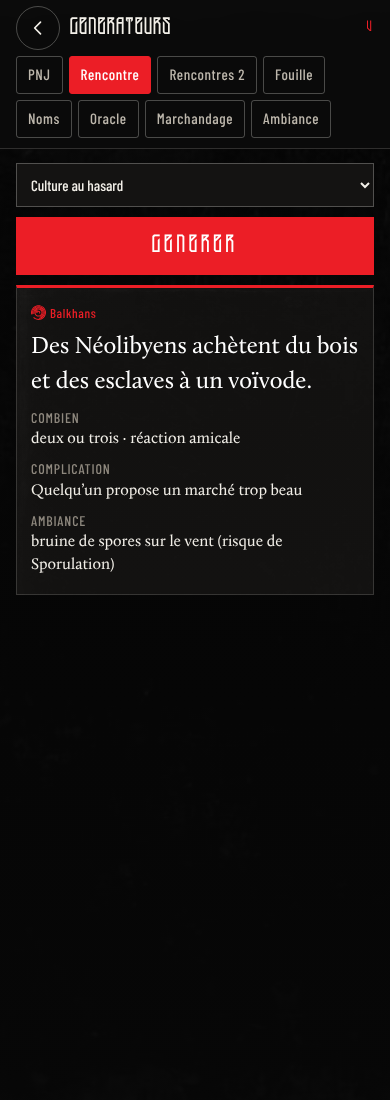
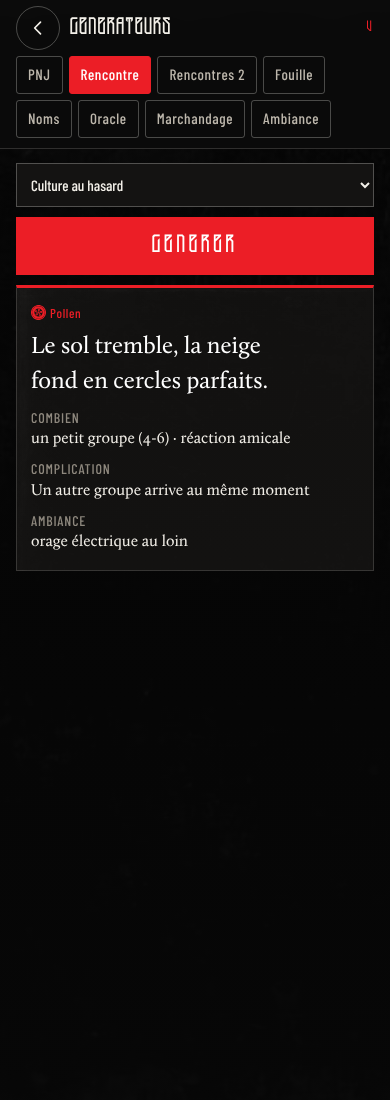
Générateurs : tables doublées
Claude-Session: https://claude.ai/code/session_01LtkstC13MjDizu5DuuNSSV

Changed region(s): [[0.0615, 0.2782, 0.9231, 0.4018], [0.0615, 0.4327, 0.8, 0.5255], [0.6154, 0.4945, 0.6462, 0.5255]]

diff --git a/data/gen.js b/data/gen.js
@@ -112,3 +112,29 @@ add("trouvailles",["batterie encore chargée","lampe torche à dynamo","jumelles
 add("danger",["plancher pourri qui cède","gaz accumulé dans une cave","nid de gendos","champ de spores en formation","Ferrailleur rival qui revendique la ruine","piège posé par l’ancien occupant","effondrement imminent","eau croupie contaminée","essaim d’insectes","clan qui considère l’endroit comme sacré","Psychonaute en sommeil dans les profondeurs","câble encore sous tension","Cafards dans les tunnels","aucun, l’endroit est étrangement calme","patrouille qui surveille la zone","radiation ou poison inconnu (malaise, nausée)","crevasse cachée sous la poussière","bête des gouffres"]);
 add("detail",["la rune d’un Ferrailleur connu : « J’ai tout pris, passez votre chemin »","des dessins d’enfants sur un mur","un cadavre momifié serrant un objet","des traces de pas récentes dans la poussière","un message gravé dans une langue oubliée","des ossements rongés autour d’un feu éteint","une fresque montrant des hommes entrant dans des machines","une porte blindée intacte, sans poignée","un écran qui s’allume une seconde puis s’éteint","des pictogrammes de Recombination Group","une cache à moitié vidée","des inscriptions « Plus jamais ! » à la peinture rouge","des toiles d’araignées gigantesques","l’odeur de quelqu’un qui vit là","des flocons blancs de Sepsie dans les fissures","un autel improvisé fait de reliques","un plan d’évacuation encore lisible","une radio qui grésille sur une fréquence inconnue"]);
 })(window.GEN);
+
+/* Extension 2 (oct. 2026) : tables doublées. */
+(function(G){
+const add=(k,a)=>{G[k]=(G[k]||[]).concat(a)};
+add("physique",["visage grêlé par une ancienne maladie","barbe tressée de perles de bois","sourcils brûlés","dos voûté par des années de fouille","yeux cernés de noir à force de veiller","peau tannée comme du cuir","cheveux blancs malgré son jeune âge","lèvres gercées et saignantes","tatouage de corbeau sur la main","pommettes saillantes, joues creuses","ongles longs et sales","mâchoire de travers, mal ressoudée","silhouette massive, ventre de buveur","épaules couvertes d’une cape à miroirs","cheveux rasés ras, scarifications sur le crâne","voix douce qui détonne avec son allure","œil couvert d’un bandeau de cuir","manteau long et chapeau à larges bords","bras droit plus musclé que le gauche","peau couverte de poussière rouge","crâne glabre et luisant d’huile","oreilles percées de dizaines d’anneaux","jambe raide, articulée par une attelle de fer","cicatrices de griffes sur la joue","yeux plissés, habitués au soleil","dents en or","visage fardé, poudre et parfum","muscles secs, pas un gramme de graisse","main couverte de brûlures chimiques","tunique colorée aux motifs ancestraux","fourrure de mammouth sur les épaules","doigts tachés d’encre","cheveux tressés et ornés de plumes","toujours encapuchonné","boucles d’oreilles faites d’os de doigts","grand, voûté, la tête rentrée dans les épaules","sourire édenté","pied nu, l’autre chaussé","bras couverts de bracelets de cuivre","silhouette frêle d’enfant malgré l’âge adulte","regard vide de grand Brûlé","marques de chaînes aux poignets","mains fines d’écrivain","front bas et sourcils broussailleux","odeur de bête et de feu de bois"]);
+add("attitude",["courtois mais distant","agressif dès qu’on hausse le ton","moqueur, se rit de tout","résigné, n’attend plus rien","hautain, méprise les sans-culte","chaleureux, offre à boire d’emblée","prudent, pose beaucoup de questions","solennel, parle comme un prêtre","enfantin, s’émerveille de tout","froid comme une lame","flatteur, en fait trop","rongé de culpabilité","exalté par une vision récente","sur la défensive, mains près de l’arme","fatigué de la guerre","charmeur et séducteur","grincheux, rien ne lui convient","fidèle à sa parole, quoi qu’il en coûte","menteur compulsif","pieux et sincère","ivre la moitié du temps","respectueux des anciens et des coutumes","joueur, propose des défis","soupçonneux envers tout ce qui brille","pressé, a mieux à faire","perdu, ne sait plus où aller","méprisant envers les Afrikains (ou les Européens)","fasciné par la technologie","effrayé par la nuit","prêt à se sacrifier pour les siens"]);
+add("secret",["a vu un Maraudeur et n’en parle à personne","garde un enfant psychonaute caché","a falsifié son score au Serveur","boit le sang de ses ennemis","a été soigné par un Anubien et en porte la marque","vend des esclaves aux Néolibyens","a dénoncé son propre frère aux Spitaliers","détient une lettre compromettante d’un Juge","a ouvert la porte d’un Distributeur et refermé aussitôt","fait partie d’une cellule P-26 hellvétique","est l’amant d’un membre d’un culte ennemi","a tué un Isaaki","a fui la Distorsion et n’en garde que des bribes","fabrique de faux artefacts","connaît l’emplacement d’une oasis","rêve chaque nuit d’un chacal","est infertile et le cache","a reçu une prophétie du tarot qui l’obsède","a été mesmérisé par un Démagogue blafard","prépare son départ pour l’Afrika","finance une nuée apocalyptique","a vendu son âme, dit-il, à un Phéromancien","a mangé de la chair humaine pour survivre","sait lire, et le cache","a volé une huile élyséenne à Lucatore","cherche la tombe d’un ancêtre","appartient à un Fragment chroniqueur sans le savoir","a été Kifo et a changé de nom","garde le journal d’un Spitalier disparu","est recherché par les Juges sous un autre nom","a un sosie qui commet des crimes en son nom","entend le Warui alors qu’il n’est pas Afrikain","a rompu un vœu sacré","doit sa fortune à un pillage de tombes","fait passer de la Brûlure dans des sacs de blé","croit être l’Élu d’une prophétie","vit avec la peur d’être un Léperos","a déjà rencontré l’un des PJ, qui l’a oublié","a enterré un trésor qu’il n’arrive plus à retrouver","protège un fugitif"]);
+add("veut",["qu’on retrouve un chariot volé","un remède pour un enfant malade","qu’on porte une offrande à un sanctuaire","récupérer un corps pour l’enterrer selon les rites","qu’on intercède auprès d’un chef de clan","qu’on l’emmène voir la mer","faire un pari avec les PJ","qu’on ouvre une porte scellée","qu’on lui apprenne à lire","se racheter d’une faute","qu’on l’aide à monter dans la hiérarchie de son culte","qu’on chasse des pillards de sa ferme","un témoin pour un mariage ou un serment","qu’on retrouve un Ferrailleur disparu","qu’on lui rapporte une herbe rare","vendre une carte au trésor","qu’on démasque un traître","qu’on transporte une fiole sans poser de questions","que les PJ partent, tout de suite","une épée, un fusil, n’importe quelle arme"]);
+add("manie",["tapote du doigt un rythme de tubes blafard","ajuste sans cesse son chapeau","prie avant chaque repas","parle à son arme","cite des proverbes que personne ne connaît","a peur des chats","garde toujours une pièce entre ses doigts","crache après avoir prononcé un nom","ne mange que ce qu’il a vu préparer","dessine des cercles dans la poussière","se balance d’avant en arrière en parlant","chuchote même quand c’est inutile","refuse de serrer la main","porte un toast à chaque phrase importante","appelle tout le monde « mon enfant »","renifle bruyamment"]);
+add("possession",["une feuille du Codex recopiée à la main","un vocodeur cassé","un couteau à lame de verre","une flasque de slivovitz","une plume de corbeau tressée","une bourse de graines de Psychovores","un chapelet de dents","un fustigateur sans batterie","une cartouche d’Ex","un pendentif croix brisée en fil de fer","une poupée de chiffon","un bracelet de cuivre gravé de runes","un fragment de miroir de Chroniqueur","une boîte de conserve jamais ouverte","un flacon de bile de chacal","une photo d’avant l’Eschaton","un sifflet en os","une liasse de lettres de change froissées","un tatouage de passe sur la paume","un dé à jouer en ivoire","un bâton de berger gravé","un médaillon contenant une mèche de cheveux"]);
+const R=G.rencontres;
+const more={
+"Borca":["Un Médecin de village spitalier annonce le prix d’un traitement à une famille en larmes.","Une Pie apocalyptique vous fait les poches en souriant.","Des Hellvétiques escortent une délégation vers la Forteresse alpine.","Un chariot de ferraille bloque la route, son Ferrailleur endormi dessus.","Une pierre du Jugement couverte de lichen, une offrande fraîche à ses pieds.","Des Ravis anabaptistes demandent l’aumône d’un repas.","Une Alcôve dont le mur d’écrans clignote : « SCORE TOO LOW ».","Un convoi néolibyen se fait refouler par des Juges.","Des Phosphorites luisent dans l’obscurité d’une ruine.","Une foule assiste à une exécution au marteau.","Des Gendos ont acculé un enfant sur un toit.","Un Chroniqueur montre le petit doigt : n’approchez pas.","Une colonne de prisonniers de Justitienne marche vers les mines de Mobilis.","Un mollusk se met à cogner dans son cylindre au passage d’un PJ.","Un Spitalier propose de vous acheter vos excréments pour analyse.","Un faux Juge rançonne les voyageurs.","Des Clanistes ont mis le feu à une ferme du Protectorat.","Une tempête de poussière rouge recouvre tout pendant une heure."],
+"Franka":["Un village entier dort le jour et vit la nuit, par peur des essaims.","Des fourmis géantes transportent un cadavre vers une colline de reproduction.","Une procession funèbre traverse le marais sur des barques.","Un pirate Mouette remonte le fleuve pour cacher son butin.","Un Phéromancien déguisé en marchand vend des parfums.","Des Touloni réclament un péage pour traverser leur pont.","Une épave d’avion émerge des roseaux.","Un Ferrailleur afrikain cherche un guide pour l’arrière-pays.","Des enfants pêchent des sangsues pour les Spitaliers.","Un faux-bourdon sourit sans comprendre ce qu’on lui dit.","Une odeur sucrée envahit l’air : une reine n’est pas loin.","Un Juge isolé, loin de la Borca, cherche son chemin.","Une barricade de vieilles carcasses protège un hameau.","Une ziggourat de termites grandit au bord de la route.","Un Néolibyen se plaint de vingt autobastions perdus dans les marais.","Des chants s’élèvent d’une église en ruine.","Un clan offre l’hospitalité en échange d’un récit.","Un essaim passe au-dessus du groupe sans s’arrêter."],
+"Pollen":["Un cavalier garganti propose une course pour un cheval.","Des chasseurs ramènent un Biokinésiste ligoté.","Un lac écarlate couvert de cadavres de Psychonautes.","Des araignées tissent un cocon autour d’un camp abandonné.","Une famille mâche du lichen autour d’un maigre feu.","Un autobastion néolibyen monte la garde près de Wroclaw.","Un Spitalier fou vit seul dans un fortin effondré.","Des mammouths se battent dans une clairière.","Une oasis verte au milieu de la toundra, gardée par des hommes en armes.","Un chaman lit l’avenir dans des entrailles de taureau.","Une forêt fractale chante quand le vent souffle.","Des Ferrailleurs de Pollen réparent un moteur pour des Afrikains.","Une banquise avance et engloutit une hutte.","Des bêtes des gouffres hurlent la nuit.","Un clan sacrifie un lapin à une forêt fractale.","Des Apocalyptiques réclament un tribut pour la Mère Corbeau.","Un tremblement de terre ouvre une crevasse fumante.","Un convoi spitalier se dirige vers Gdańsk sous la neige."],
+"Balkhans":["Un Dushani chante au fond d’une vallée : tout le monde se tait.","Des Jehammétans de Bucuresti paient tribut à un voïvode.","Des enfants apprennent à ne jamais parler de leurs voisins.","Un bunker blafard émet des claquements rythmés.","Un éveilleur blafard demande poliment son chemin.","Des Fléaux campent dans les tours d’une ville morte.","Une Hagari porte des explosifs sous ses vêtements.","Un mariage de clan tourne à la rixe.","Des maisons en pierres de taille accueillent ceux qui saluent correctement.","Une Corneille tire le tarot pour un voïvode.","Des esclaves en haillons tirent un chariot vers le sud.","Un champ de mines oublié, balisé de crânes.","Une procession d’Arianoï porte une tête de bélier.","Un Spitalier exilé soigne en cachette.","Une forteresse de voïvode aux cages suspendues vides.","Un clan règle une vendetta vieille de trois siècles.","Des Néolibyens offrent des cadeaux somptueux à un chef.","Une rivière charrie des cadavres depuis l’amont."],
+"Hybrispanie":["Un château vide, seule la poussière l’habite.","Une vieille famille montre son arbre généalogique et ses branches coupées.","Des Fléaux brûlent une cachette de Guerreros.","Une fosse commune à l’orée de la jungle.","Un Néolibyen d’Al-Andalus cherche des esclaves dociles.","Un oiseau migrateur qui ne se pose jamais tourne au-dessus du groupe.","Une Anubienne soigne un Guerrero blessé sans poser de question.","Des Hybrispagnols en fuite traversent le plateau castillan.","Une plantation de pétrole, gardée par des Fléaux.","Un Glaive de Jehammet blessé implore qu’on l’achève.","Des matadors s’entraînent contre un taureau sauvage.","Un temps qui se déforme : la journée semble durer deux jours.","Des esclaves se révoltent dans un champ pétrolifère.","Une hutte d’Anubien faite d’ossements.","Un corbeau parle avec une voix humaine.","Une ville côtière entièrement néolibyenne, interdite aux Européens.","Une jungle silencieuse, sans un seul oiseau.","Un messager porte une offre de trêve entre deux camps."],
+"Purgare":["Des Ascètes labourent un champ tout juste arraché aux filaments.","Un pèlerinage mène à Cathédrale par les cols alpins.","Une Fureur porte un calcinateur sorti des arsenaux interdits.","Un Psychokinésiste apparaît mille fois dans un espace fracturé.","Un village d’Ascètes jeûne depuis sept jours.","Des Jehammétans tirent depuis l’autre rive de l’Adriatique.","Un désert de soufre où rien ne pousse.","Un geyser jaillit sans prévenir.","Une famille purgane offre l’hospitalité et attend la même chose en retour.","Un Achéron passe : tous détournent les yeux.","Des Néolibyens achètent une concession de pillage sans valeur.","Un Élyséen presse des herbes dans un pressoir portatif.","Un Ferrailleur chasseur de trésors, équipé comme pour la guerre.","Des orgies anabaptistes résonnent toute la nuit.","Une coulée de lave refroidie barre la route.","Un dissident vend des têtes d’Aberrants.","Une ville-infirmerie résonne de gémissements.","Un Sublime appelle à la croisade : des milliers le suivent."],
+"Afrika":["Des Néolibyens se rendent aux enchères de Tripol, suivis d’esclaves.","Un Dumisai défie le Chaga de sa troupe.","Une Saraeli captive est escortée vers un harem.","Des enfants plongent dans la mer pour récupérer de la ferraille.","Un Moyo cherche à accomplir ses huit exploits.","Des mendiants s’entassent devant la Banque du Commerce.","Une ville en ruine couverte de fresques que nul Fléau n’ose regarder.","Un champ pétrolifère en feu.","Une hyène dressée suit la piste des PJ.","Un Néolibyen offre une fête au peuple après une enchère réussie.","Des Psychovores s’écartent devant un Prophète des âmes.","Une plantation de quinoa et ses esclaves blancs.","Un conteur entraîne tout un village dans une transe.","Des araignées d’Anansi emmaillotent un mort.","Une révolte d’esclaves gronde dans une ville côtière.","Un Ferrailleur afrikain fanfaronne avec un artefact de Borca.","Une tempête de sable découvre une crypte de grès poli.","Des Fléaux sculptent un arbre généalogique à la veillée."]};
+for(const c in more)R[c]=R[c].concat(more[c]);
+add("complication",["un innocent risque de payer pour les autres","la scène attire un Psychonaute","quelqu’un demande aux PJ de prendre parti","un objet change de mains sans qu’on le voie","il y a un traître dans l’un des camps","la loi locale interdit ce que les PJ s’apprêtent à faire","le chef n’est pas celui qu’on croit","une maladie circule","la rencontre se répète le lendemain, en pire","un PNJ croise les PJ plus tard, ailleurs","une rumeur précède les PJ","quelqu’un tente de les acheter","la route de retour est coupée","un culte rival observe la scène","un PJ est pris pour quelqu’un d’autre","une fête ou un deuil impose ses coutumes","un enfant suit les PJ après la scène","l’enjeu vaut beaucoup plus que prévu"]);
+add("ruines",["centre de tri postal","stade à moitié effondré","église transformée en entrepôt","usine chimique aux cuves fendues","prison d’avant l’Eschaton","dépôt de bus","silo à grains","station-relais sur une colline","banque et sa salle des coffres","cinéma dont l’écran tient encore","serres effondrées","base militaire clôturée","entrepôt de pièces automobiles","barrage fissuré","château d’eau","hôtel de luxe ravagé","supermarché enfoui sous le sable","usine textile","garage souterrain","phare côtier","villa luxueuse au bord d’un lac asséché","clinique vétérinaire","dépôt d’armes scellé","observatoire au dôme crevé","quartier de pavillons identiques","centre de recherche aux portes blindées","raffinerie rouillée","école militaire","ferme automatisée","terminal portuaire","échangeur autoroutier","imprimerie","morgue","refuge de montagne","tour de contrôle"]);
+add("trouvailles",["tablette tactile muette","haut-parleur","climatiseur démonté","drone en morceaux","lunettes de vue","stéthoscope","ciseaux chirurgicaux","bobine de film","caméra de surveillance","carte mère","ventilateur","machine à écrire","pistolet à clous","scie circulaire","antenne télescopique","horloge murale","cadenas sans clé","tasse en porcelaine","jumelles de théâtre","ordinateur portable","manette de jeu","casque audio","réveil mécanique","talkie-walkie","lampe frontale","ampoules intactes","fusible","moteur électrique","pompe à vélo","sac à dos imperméable","briquet à essence","casserole en inox","bouilloire","rasoir mécanique","couteau suisse","appareil de mesure inconnu","fiole de médicament scellée","plaque d’immatriculation","bâton de dynamite humide","boîte de munitions","jerrican d’essence","kit de couture","bocaux de conserve","radiateur","grille-pain","miroir intact","livre de recettes","globe terrestre","instrument de musique","statue de bronze","tuyau de cuivre"]);
+add("danger",["chien sauvage qui défend sa portée","sol couvert de verre","pluie acide qui s’infiltre","escalier sans marches","nid de guêpes géantes","eau qui monte","mine oubliée","rats affamés","colonie de chauves-souris","toxine dans la poussière","porte qui se referme derrière les PJ","plafond prêt à s’écrouler","barbares qui y campent","araignées échéines échappées","odeur de Brûlure : un trafiquant est là","Phéromancien qui a fait son nid","machine qui se remet en marche","quelque chose bouge sous les décombres"]);
+add("detail",["un coffre déjà forcé","un journal intime d’Ancien","un squelette au fond d’une baignoire","des empreintes de chaussures d’avant l’Eschaton figées dans le béton","un graffiti de corbeau","une ligne électrique qui part sous terre","un sac de couchage encore chaud","une trappe cachée sous un tapis","des douilles éparpillées","une affiche « Recombination Group » délavée","une odeur d’huile élyséenne","des inscriptions de Chroniqueur : un code-barres à la craie","un cercle de pierres au centre d’une pièce","des vêtements d’enfants pliés avec soin","une chaise face au mur","des marques de griffes au plafond","un poste radio qui capte des voix","un escalier qui descend plus bas que prévu"]);
+})(window.GEN);

diff --git a/sw.js b/sw.js
@@ -1,5 +1,5 @@
 // Codex du MJ – cache hors ligne. La version change à chaque mise à jour.
-const V="codex-202610272100";
+const V="codex-202610272110";
 const FILES=["./", "app.js", "assets/BG_BLACK_1.jpg", "assets/BG_BLACK_12.jpg", "assets/Calluna-Regular.otf", "assets/DEGENESIS-v0.1.ttf", "assets/camp/Benesato-armoiries.jpg", "assets/camp/abacus.jpg", "assets/camp/arrivee-lucatore.jpg", "assets/camp/attila.jpg", "assets/camp/avantposte-helvetique.jpg", "assets/camp/ba-atlantique.jpg", "assets/camp/ba-brest-maison.jpg", "assets/camp/ba-brest-port.jpg", "assets/camp/ba-brest-rue.jpg", "assets/camp/ba-britannia.jpg", "assets/camp/ba-carnac.jpg", "assets/camp/ba-eau-profonde.jpg", "assets/camp/ba-ganaress.jpg", "assets/camp/ba-gantelet.jpg", "assets/camp/ba-jour-ganaress.jpg", "assets/camp/ba-mont-saint-michel.jpg", "assets/camp/ba-morlaix.jpg", "assets/camp/ba-nantes.jpg", "assets/camp/ba-ouessant.jpg", "assets/camp/ba-parel.jpg", "assets/camp/ba-profondeurs.jpg", "assets/camp/ba-raffinerie.jpg", "assets/camp/ba-rennes.jpg", "assets/camp/ba-terre-pecheurs.jpg", "assets/camp/bargeist-vikal.jpg", "assets/camp/camp-romano.jpg", "assets/camp/chrono.jpg", "assets/camp/cloitre.jpg", "assets/camp/ennio-gala.jpg", "assets/camp/foret.jpg", "assets/camp/jdm-comptoir.jpg", "assets/camp/jdm-cour-argent.jpg", "assets/camp/jdm-fauxbourdons.jpg", "assets/camp/jdm-ferrallies.jpg", "assets/camp/jdm-marais.jpg", "assets/camp/jdm-palais-hamza.jpg", "assets/camp/jdm-port-lagagne.jpg", "assets/camp/jdm-route-resistance.jpg", "assets/camp/jdm-saint-chenil.jpg", "assets/camp/jdm-terres-putain.jpg", "assets/camp/jdm-tours.jpg", "assets/camp/lucatore.jpg", "assets/camp/moulin.jpg", "assets/camp/neva.jpg", "assets/camp/papachico-neva.jpg", "assets/camp/scirocco.jpg", "assets/camp/sigle-bargeist.jpg", "assets/camp/t-luz.png", "assets/camp/t-octet.png", "assets/camp/t-pavel.png", "assets/camp/t-vex.png", "assets/camp/tomlenoir.jpg", "assets/camp/vikal.jpg", "assets/dice/d1.png", "assets/dice/d2.png", "assets/dice/d3.png", "assets/dice/d4.png", "assets/dice/d5.png", "assets/dice/d6.png", "assets/fonts/barlow-condensed-latin-500-normal.woff2", "assets/fonts/barlow-condensed-latin-600-normal.woff2", "assets/fonts/barlow-condensed-latin-700-normal.woff2", "assets/logo-clean.svg", "assets/lore/b-amsumo.jpg", "assets/lore/b-discordance.jpg", "assets/lore/b-dormeur.jpg", "assets/lore/b-ganaress.jpg", "assets/lore/b-leviathan.jpg", "assets/lore/b-leviathaniques.jpg", "assets/lore/b-mammouths.jpg", "assets/lore/b-murnakir.jpg", "assets/lore/b-sporuleux.jpg", "assets/lore/b-tsar.jpg", "assets/lore/c-anabaptistes.jpg", "assets/lore/c-anubiens.jpg", "assets/lore/c-apocalyptiques.jpg", "assets/lore/c-blafards.jpg", "assets/lore/c-chroniqueurs.jpg", "assets/lore/c-clanistes.jpg", "assets/lore/c-ferrailleurs.jpg", "assets/lore/c-fleaux.jpg", "assets/lore/c-hellvetiques.jpg", "assets/lore/c-jehammetans.jpg", "assets/lore/c-juges.jpg", "assets/lore/c-neolibyens.jpg", "assets/lore/c-spitaliers.jpg", "assets/lore/k-adriani.jpg", "assets/lore/k-bordenoir.jpg", "assets/lore/k-britoni.jpg", "assets/lore/k-cafards.jpg", "assets/lore/k-corredores.jpg", "assets/lore/k-enemoi.jpg", "assets/lore/k-exaltiens.jpg", "assets/lore/k-flagellants.jpg", "assets/lore/k-garganti.jpg", "assets/lore/k-massai.jpg", "assets/lore/k-matadors.jpg", "assets/lore/k-pandoriens.jpg", "assets/lore/k-phosphorites.jpg", "assets/lore/k-pneumanciens.jpg", "assets/lore/k-resistance.jpg", "assets/lore/k-romano.jpg", "assets/lore/k-shabath.jpg", "assets/lore/k-storski.jpg", "assets/lore/k-stukov.jpg", "assets/lore/k-touloni.jpg", "assets/lore/k-usudi.jpg", "assets/lore/k-voivodules.jpg", "assets/lore/l-bassham.jpg", "assets/lore/l-bayonne.jpg", "assets/lore/l-black-atlantic.jpg", "assets/lore/l-brest.jpg", "assets/lore/l-chapelle-vicarent.jpg", "assets/lore/l-corpse.jpg", "assets/lore/l-entrepots.jpg", "assets/lore/l-lucatore.jpg", "assets/lore/l-mediterranee.jpg", "assets/lore/l-morlaix.jpg", "assets/lore/l-msm.jpg", "assets/lore/l-nantes.jpg", "assets/lore/l-nullpellia.jpg", "assets/lore/l-ouest-rhone.jpg", "assets/lore/l-plateformes.jpg", "assets/lore/l-port-lagagne.jpg", "assets/lore/l-pressoir.jpg", "assets/lore/l-rennes.jpg", "assets/lore/l-rhone.jpg", "assets/lore/l-romano-camp.jpg", "assets/lore/l-saint-brieuc.jpg", "assets/lore/l-saint-chenil.jpg", "assets/lore/l-stukov.jpg", "assets/lore/l-terres-putain.jpg", "assets/lore/l-toulon.jpg", "assets/lore/l-unya.jpg", "assets/lore/m-caire.jpg", "assets/lore/m-eshaton.jpg", "assets/lore/m-fractale.jpg", "assets/lore/m-spores.jpg", "assets/lore/m-ziggurat.jpg", "assets/lore/p-biokinesie-hero.jpg", "assets/lore/p-biokinesie.jpg", "assets/lore/p-dushani-hero.jpg", "assets/lore/p-dushani.jpg", "assets/lore/p-homo.jpg", "assets/lore/p-pheromanciens-hero.jpg", "assets/lore/p-pheromanciens.jpg", "assets/lore/p-pregnostiques-hero.jpg", "assets/lore/p-pregnostiques.jpg", "assets/lore/p-psychokinesie-hero.jpg", "assets/lore/p-psychokinesie.jpg", "assets/lore/p-psychovores.jpg", "assets/lore/p-sepsie.jpg", "assets/lore/r-balkhans.jpg", "assets/lore/r-borca.jpg", "assets/lore/r-cathedrale.jpg", "assets/lore/r-franka.jpg", "assets/lore/r-hellvetica.jpg", "assets/lore/r-hybrispanie.jpg", "assets/lore/r-justitienne.jpg", "assets/lore/r-pollen.jpg", "assets/lore/r-purgare.jpg", "assets/lore/r-tripol.jpg", "assets/lore/s-biokinese.png", "assets/lore/s-dushan.png", "assets/lore/s-pheromancie.png", "assets/lore/s-pregnosticisme.png", "assets/lore/s-psychokinese.png", "assets/lore/x-argyre-hero.jpg", "assets/lore/x-argyre.jpg", "assets/lore/x-aries.jpg", "assets/lore/x-aspera.jpg", "assets/lore/x-chernobog.jpg", "assets/lore/x-gusev.jpg", "assets/lore/x-triglav.jpg", "assets/pnj/ba-ampere.jpg", "assets/pnj/ba-arnika.jpg", "assets/pnj/ba-balor.jpg", "assets/pnj/ba-barringer.jpg", "assets/pnj/ba-bascule.jpg", "assets/pnj/ba-docteur-vega.jpg", "assets/pnj/ba-eris.jpg", "assets/pnj/ba-garlene.jpg", "assets/pnj/ba-helios.jpg", "assets/pnj/ba-ifrit.jpg", "assets/pnj/ba-imbali.jpg", "assets/pnj/ba-malinesse.jpg", "assets/pnj/ba-oppolus.jpg", "assets/pnj/ba-parel.jpg", "assets/pnj/ba-soufiane.jpg", "assets/pnj/ba-vicarent.jpg", "assets/pnj/ets-abacus.jpg", "assets/pnj/ets-barghest.jpg", "assets/pnj/ets-carmino-ferro.jpg", "assets/pnj/ets-ennio-benesato.jpg", "assets/pnj/ets-fernex-le-vigilant.jpg", "assets/pnj/ets-gala-lombardi.jpg", "assets/pnj/ets-leurre-5.jpg", "assets/pnj/ets-lucio-bastardo.jpg", "assets/pnj/ets-neva-l-emissaire-de-fer.jpg", "assets/pnj/ets-papa-chicco.jpg", "assets/pnj/ets-scirocco-le-pecheur.jpg", "assets/pnj/ets-tom-le-noir.jpg", "assets/pnj/ets-verena.jpg", "assets/pnj/ets-vikal.jpg", "assets/pnj/jdm-adonai.jpg", "assets/pnj/jdm-albatre.jpg", "assets/pnj/jdm-arcville.jpg", "assets/pnj/jdm-ayubu-le-limier.jpg", "assets/pnj/jdm-baptiste.jpg", "assets/pnj/jdm-callisto.jpg", "assets/pnj/jdm-crotale.jpg", "assets/pnj/jdm-deich.jpg", "assets/pnj/jdm-eisenhauer.jpg", "assets/pnj/jdm-facteur.jpg", "assets/pnj/jdm-hamza-abubakar-iii.jpg", "assets/pnj/jdm-hexell.jpg", "assets/pnj/jdm-hurlante.jpg", "assets/pnj/jdm-ivar.jpg", "assets/pnj/jdm-leurre-5.jpg", "assets/pnj/jdm-meridien.jpg", "assets/pnj/jdm-mirage.jpg", "assets/pnj/jdm-nephraim.jpg", "assets/pnj/jdm-nestor.jpg", "assets/pnj/jdm-opis-la-grenouille.jpg", "assets/pnj/jdm-orma.jpg", "assets/pnj/jdm-sabata.jpg", "assets/pnj/jdm-verican.jpg", "assets/pnj/jdm-wachsmann.jpg", "assets/pnj/jdm-zoe-morceau.jpg", "assets/pnj/jdm-zohra-consule-de-toulon.jpg", "assets/tarot/0.jpg", "assets/tarot/01.jpg", "assets/tarot/02.jpg", "assets/tarot/03.jpg", "assets/tarot/04.jpg", "assets/tarot/05.jpg", "assets/tarot/06.jpg", "assets/tarot/07.jpg", "assets/tarot/08.jpg", "assets/tarot/09.jpg", "assets/tarot/10.jpg", "assets/tarot/11.jpg", "assets/tarot/12.jpg", "assets/tarot/13.jpg", "assets/tarot/14.jpg", "assets/tarot/15.jpg", "assets/tarot/16.jpg", "assets/tarot/17.jpg", "assets/tarot/18.jpg", "assets/tarot/19.jpg", "assets/tarot/20.jpg", "assets/tarot/21.jpg", "assets/tarot/tarot-dos-01.jpg", "data/bazar.js", "data/campagne.js", "data/gen.js", "data/icons.js", "data/lore.js", "data/oracle.js", "data/potentiels.js", "data/regles.js", "data/survie-regles.js", "data/survie.js", "icons/icon-192.png", "icons/icon-512.png", "icons/maskable-512.png", "index.html", "manifest.webmanifest"];
 self.addEventListener("install",e=>{e.waitUntil(caches.open(V).then(c=>c.addAll(FILES)).then(()=>self.skipWaiting()))});
 self.addEventListener("activate",e=>{e.waitUntil(caches.keys().then(ks=>Promise.all(ks.filter(k=>k!==V).map(k=>caches.delete(k)))).then(()=>self.clients.claim()))});
